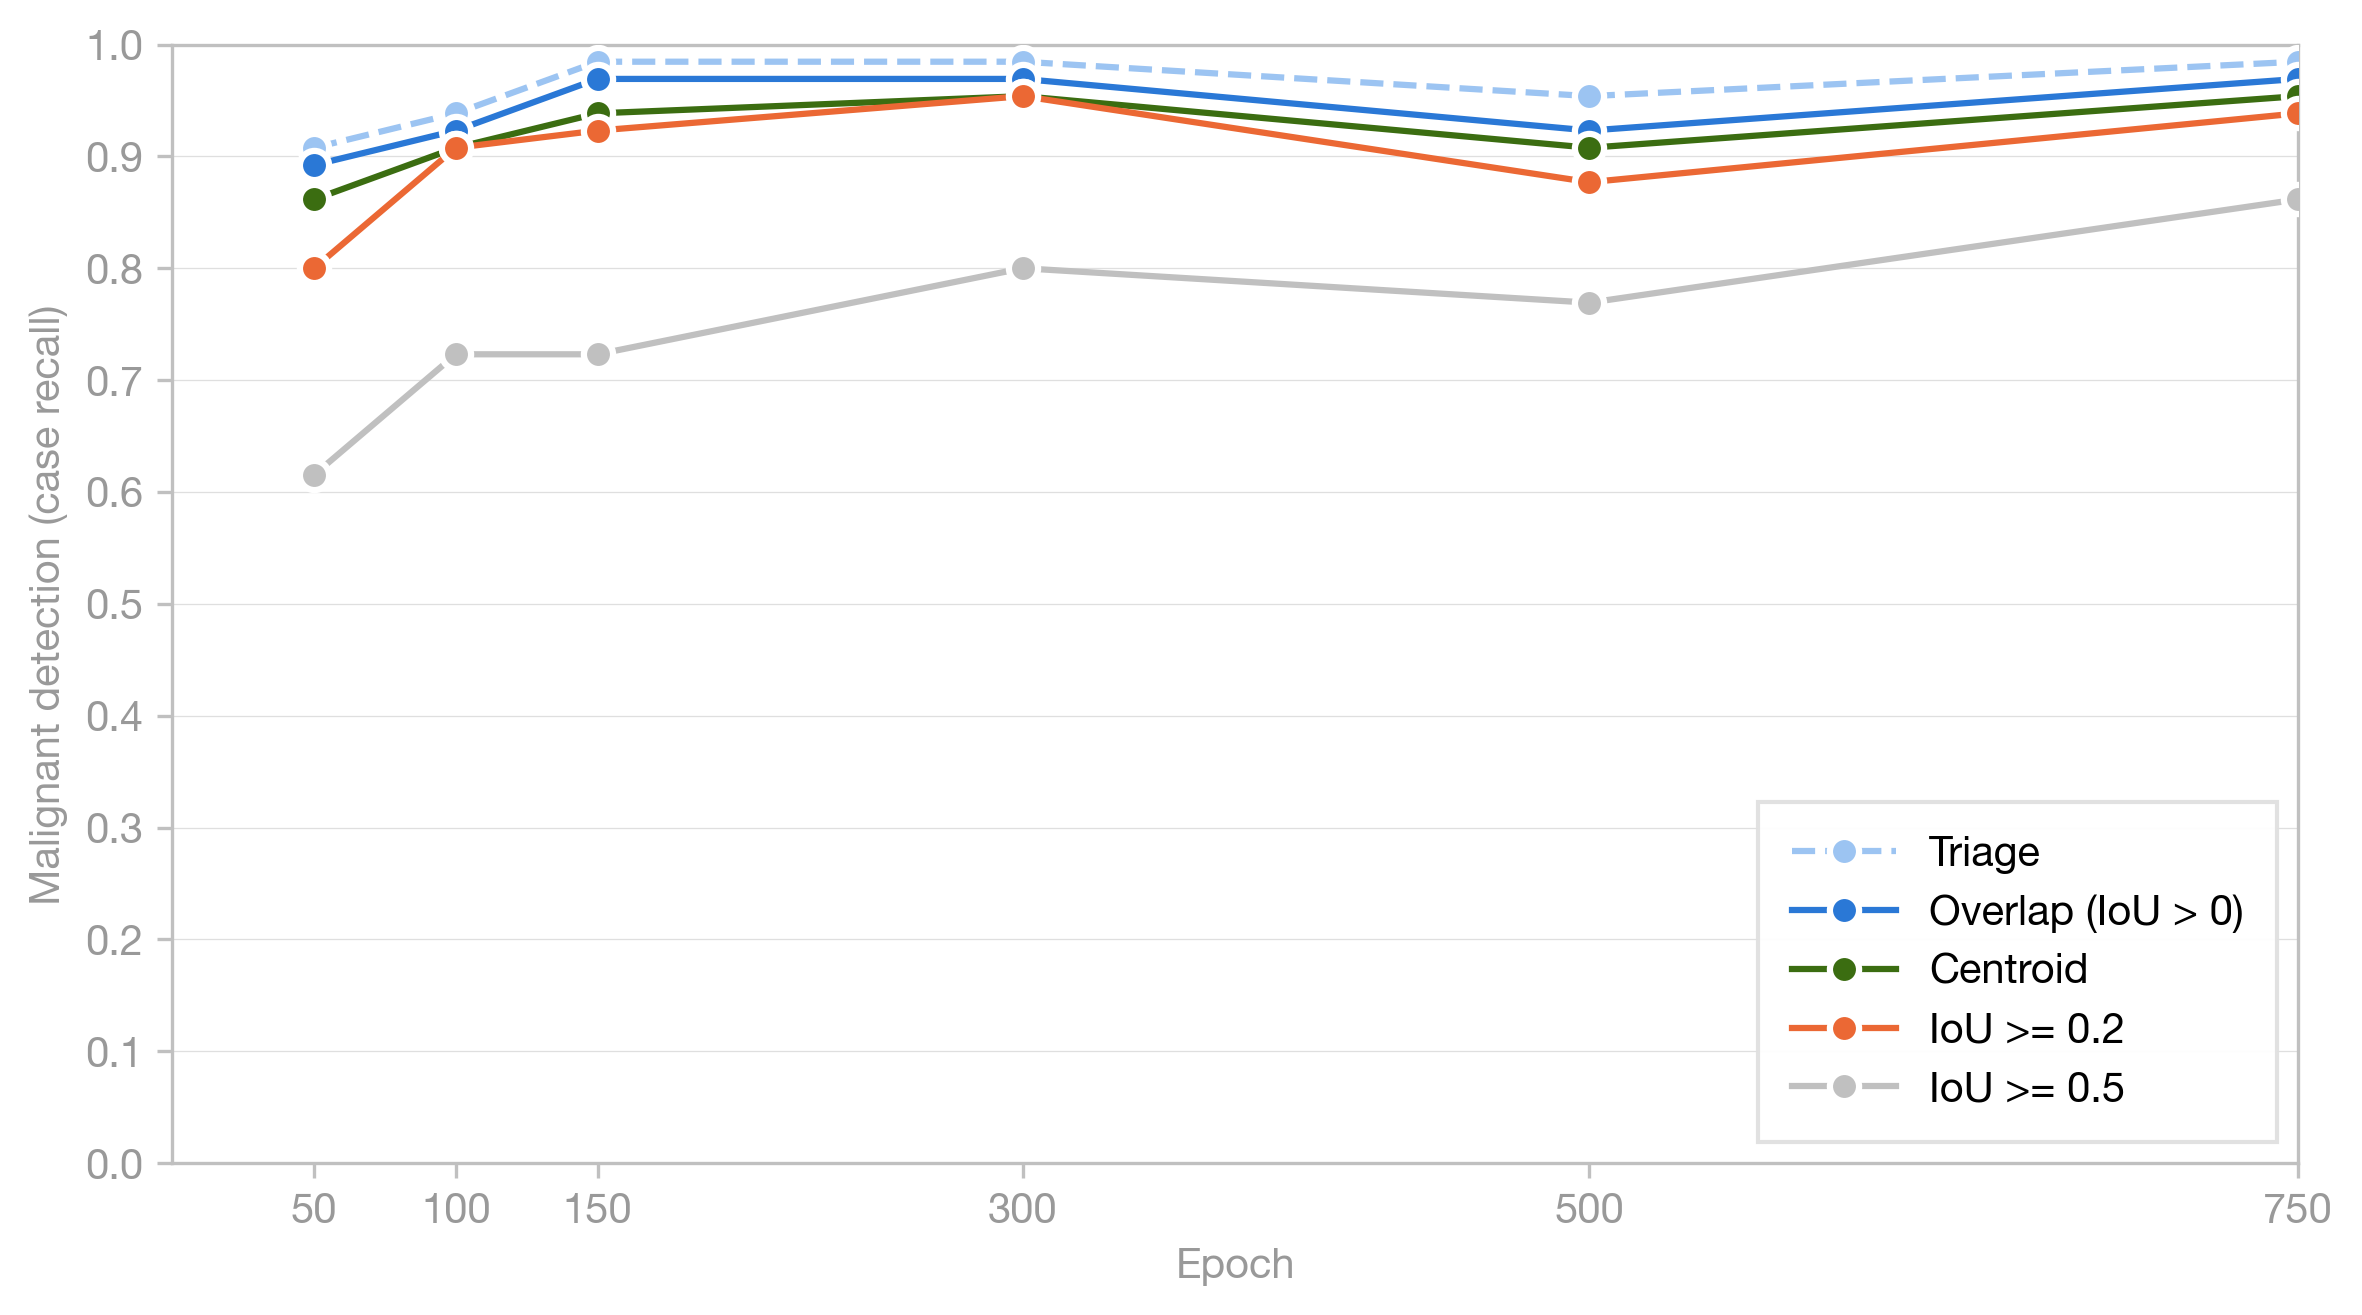
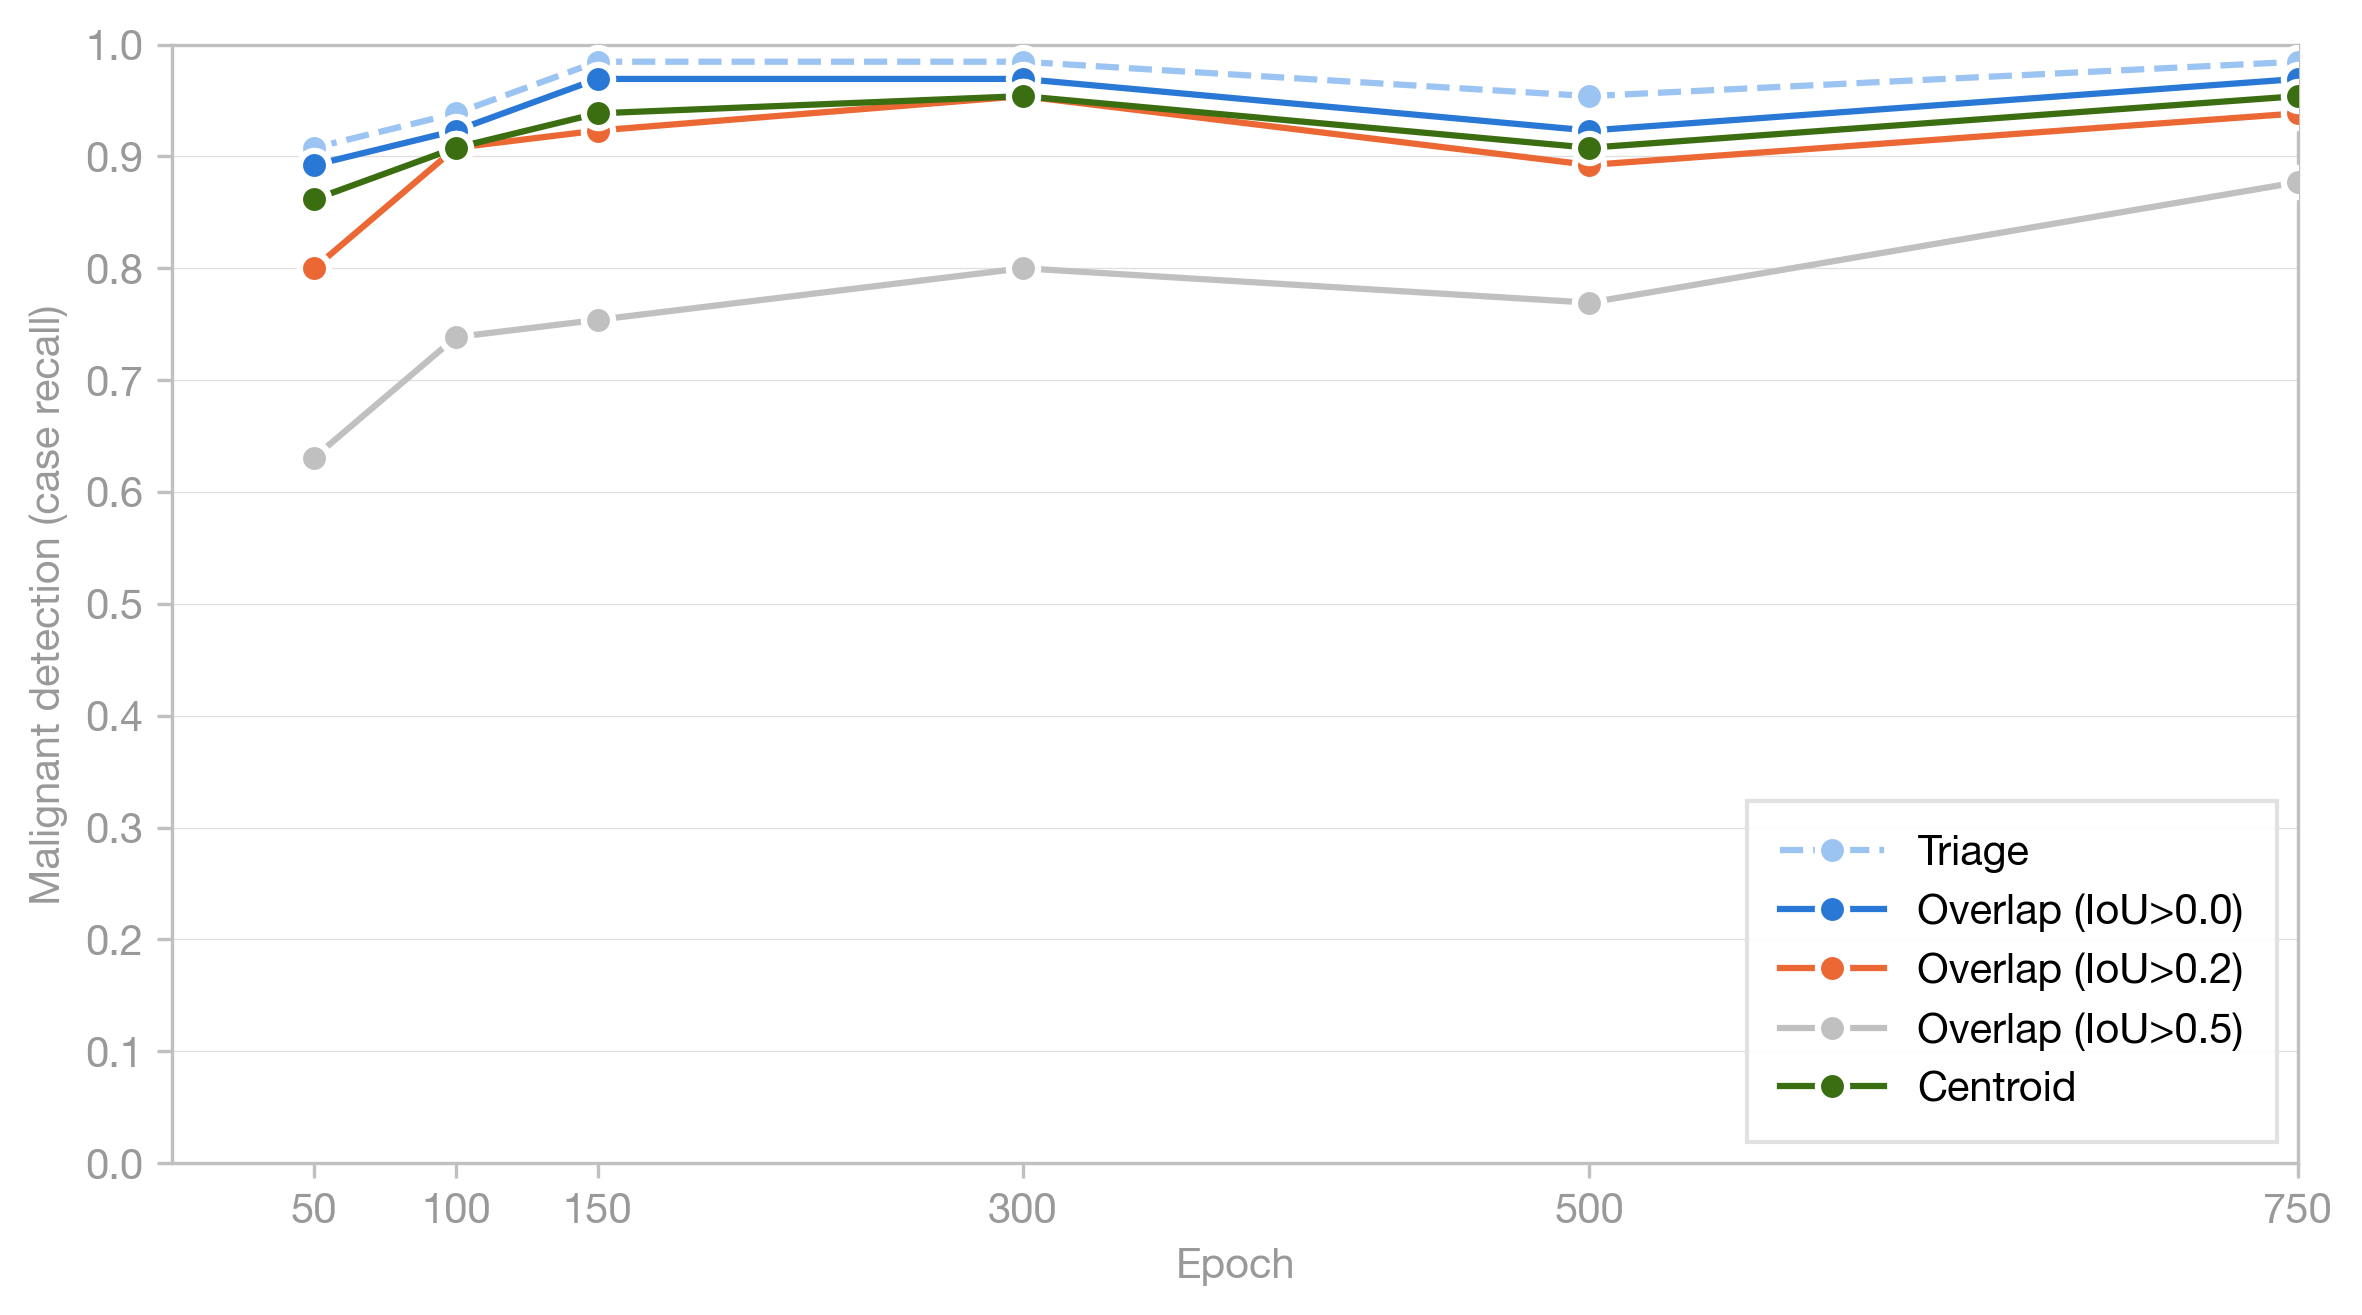
Reorder detection criteria by severity in malignant report
Move centroid to the least permissive position and relabel IoU rows
as "Overlap (IoU>x.x)". Regenerate chart, PDF, and markdown table.

diff --git a/analysis/reports/malignant_detection_by_epoch/malignant_detection_by_epoch.py b/analysis/reports/malignant_detection_by_epoch/malignant_detection_by_epoch.py
@@ -1,14 +1,14 @@
 """Malignant-mass detection vs. epoch, five criteria on one chart.
 
 Plots malignant case-level recall across five detection criteria, so the
-permissiveness ladder (triage -> overlap -> centroid -> IoU 0.2 -> IoU 0.5) can
-be read off against epoch in one view:
+permissiveness ladder (triage -> overlap -> centroid) can be read off against
+epoch in one view:
 
   - triage:       any retained predicted mass anywhere (no overlap required)
   - iou_0:        overlap-based (any overlap, IoU > 0)
+  - iou_0.2:      IoU > 0.2 (per-component)
+  - iou_0.5:      IoU > 0.5 (per-component)
   - centroid:     predicted centroid within 0.5x GT equivalent diameter
-  - iou_0.2:      IoU >= 0.2
-  - iou_0.5:      IoU >= 0.5
 
 The values are read from the per-criterion JSON artifacts already produced by
 the individual analysis scripts (recomputation would duplicate their logic).
@@ -44,13 +44,13 @@ CRITERIA = [
     ("triage",   "epoch_convergence_by_triage_detection/epoch_convergence_by_triage_detection.json",
      "Triage",                 "#9cc4f2", "--"),
     ("iou_0",    "epoch_convergence_by_overlap_detection/epoch_convergence_by_overlap_detection_iou_00.json",
-     "Overlap (IoU > 0)",      "#2a78d6", "-"),
+     "Overlap (IoU>0.0)",      "#2a78d6", "-"),
+    ("iou_02",   "epoch_convergence_by_overlap_detection/epoch_convergence_by_overlap_detection_iou_02.json",
+     "Overlap (IoU>0.2)",      "#eb6834", "-"),
+    ("iou_05",   "epoch_convergence_by_overlap_detection/epoch_convergence_by_overlap_detection_iou_05.json",
+     "Overlap (IoU>0.5)",      "#c0c0c0", "-"),
     ("centroid", "epoch_convergence_by_centroid_detection/epoch_convergence_by_centroid_detection.json",
      "Centroid",               "#3b6d11", "-"),
-    ("iou_02",   "epoch_convergence_by_overlap_detection/epoch_convergence_by_overlap_detection_iou_02.json",
-     "IoU >= 0.2",             "#eb6834", "-"),
-    ("iou_05",   "epoch_convergence_by_overlap_detection/epoch_convergence_by_overlap_detection_iou_05.json",
-     "IoU >= 0.5",             "#c0c0c0", "-"),
 ]
 
 plt.rcParams.update({

diff --git a/analysis/reports/malignant_detection_by_epoch/malignant_detection_by_epoch.md b/analysis/reports/malignant_detection_by_epoch/malignant_detection_by_epoch.md
@@ -4,11 +4,11 @@ Single preliminary milestones run: seed 42, 625 images, joint-selected checkpoin
 
 Values are malignant case-level recall (fraction of malignant cases detected) under five detection criteria, ordered from most to least permissive.
 
-| Epoch | Triage | Overlap (IoU > 0) | Centroid | IoU >= 0.2 | IoU >= 0.5 |
+| Epoch | Triage | Overlap (IoU>0.0) | Overlap (IoU>0.2) | Overlap (IoU>0.5) | Centroid |
 |------:|--------------:|--------------:|--------------:|--------------:|--------------:|
-| 50 | 0.9077 | 0.8923 | 0.8615 | 0.8000 | 0.6154 |
-| 100 | 0.9385 | 0.9231 | 0.9077 | 0.9077 | 0.7231 |
-| 150 | 0.9846 | 0.9692 | 0.9385 | 0.9231 | 0.7231 |
-| 300 | 0.9846 | 0.9692 | 0.9538 | 0.9538 | 0.8000 |
-| 500 | 0.9538 | 0.9231 | 0.9077 | 0.8769 | 0.7692 |
-| 750 | 0.9846 | 0.9692 | 0.9538 | 0.9385 | 0.8615 |
+| 50 | 0.9077 | 0.8923 | 0.8000 | 0.6308 | 0.8615 |
+| 100 | 0.9385 | 0.9231 | 0.9077 | 0.7385 | 0.9077 |
+| 150 | 0.9846 | 0.9692 | 0.9231 | 0.7538 | 0.9385 |
+| 300 | 0.9846 | 0.9692 | 0.9538 | 0.8000 | 0.9538 |
+| 500 | 0.9538 | 0.9231 | 0.8923 | 0.7692 | 0.9077 |
+| 750 | 0.9846 | 0.9692 | 0.9385 | 0.8769 | 0.9538 |
